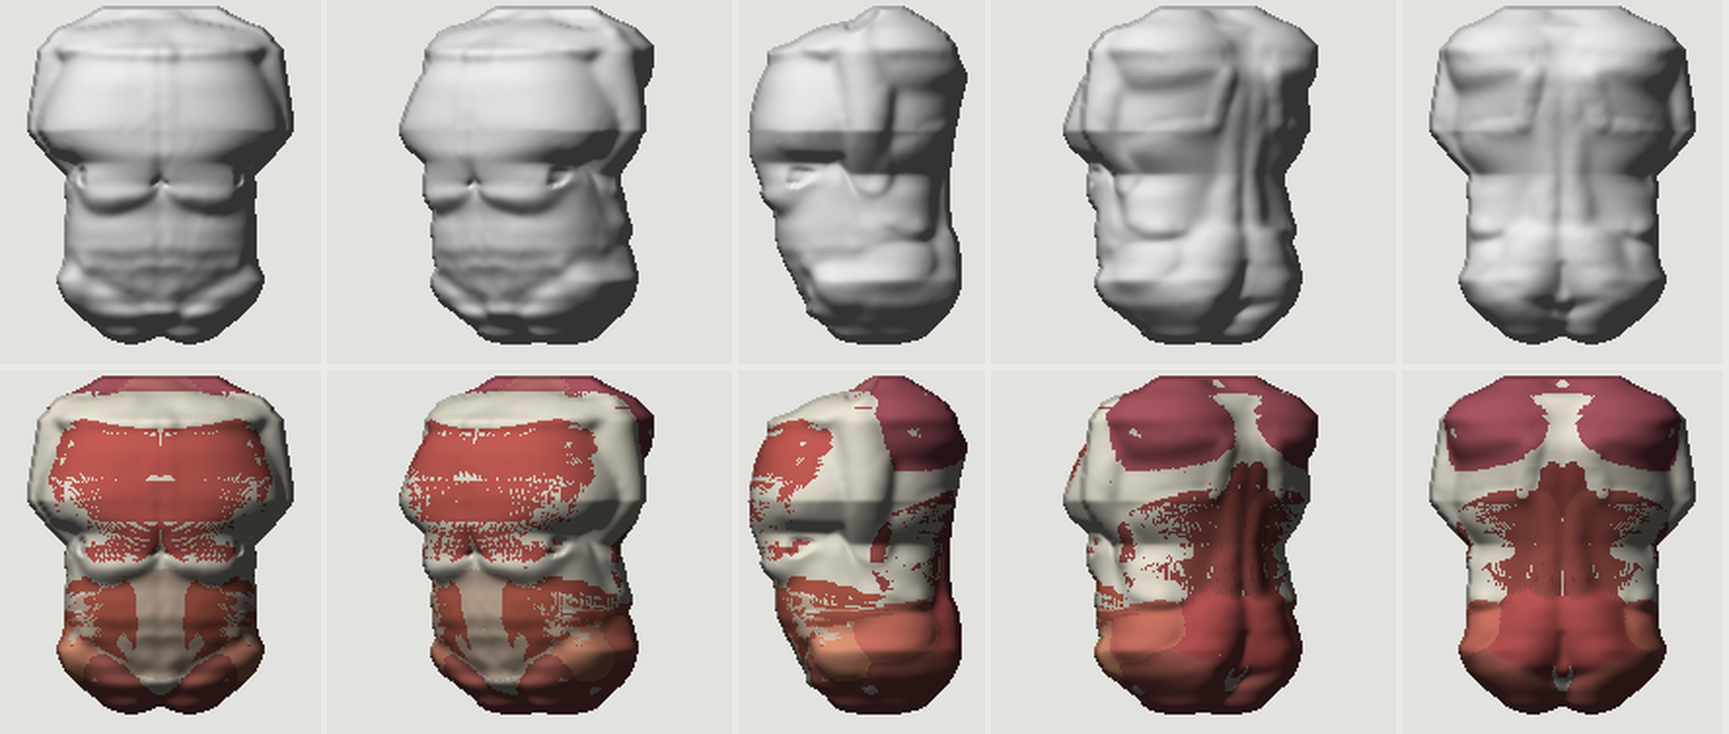
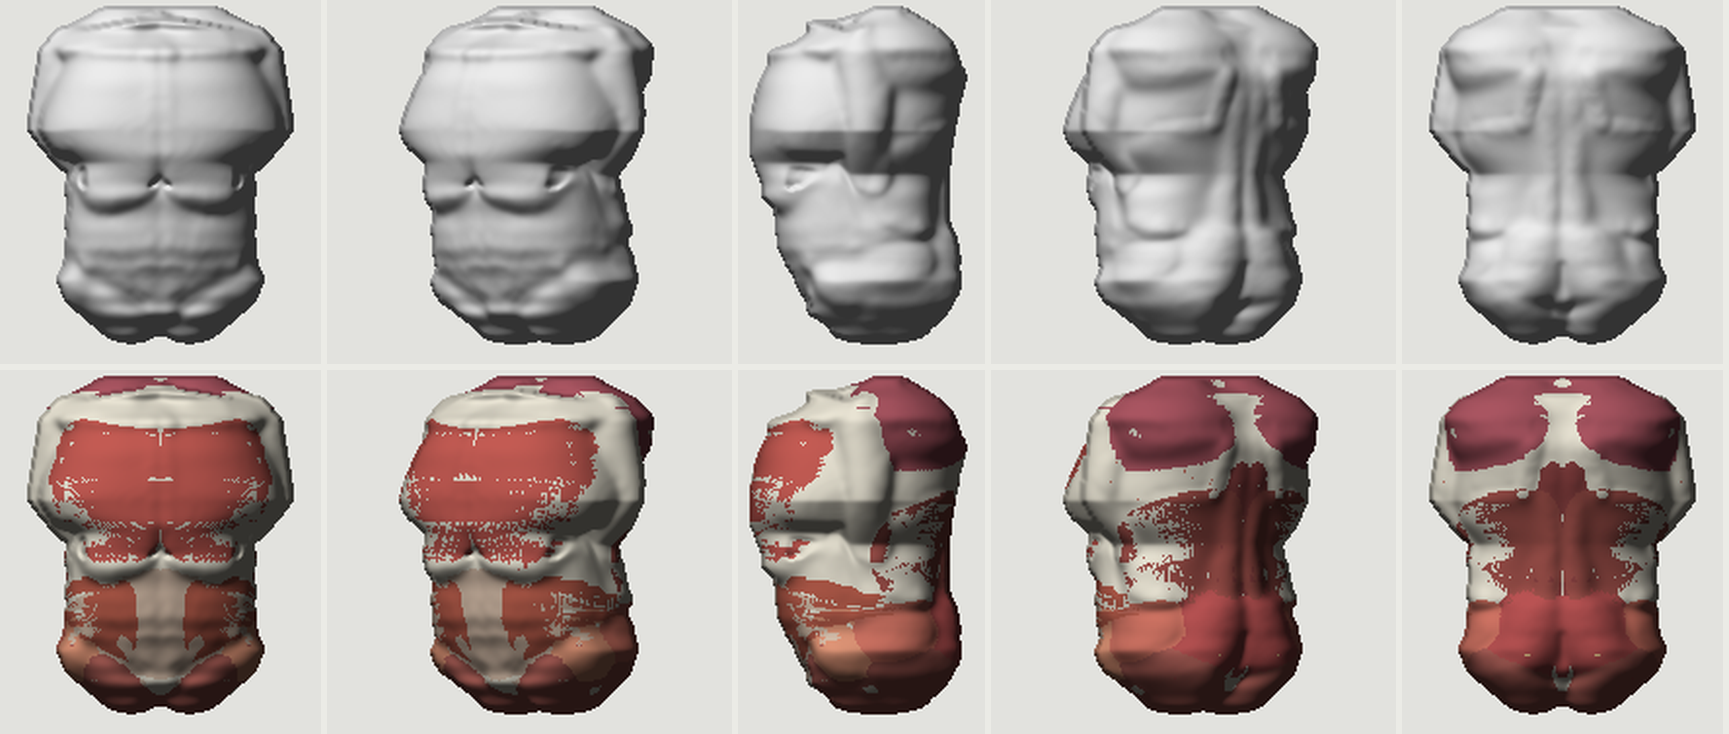
Body 3D: neck root (scalenes, feet of the sternocleidomastoids) removed from the trunk stack (ghost neck); prototype M v6
M v6: muscle 30.8 %, fat 23 %, bone 7.1 %, viscera 35.4 % of the torso mass. Muscle board now 14 muscles.

diff --git a/Art/work/transfer-proto/fable-crack/stack3d.py b/Art/work/transfer-proto/fable-crack/stack3d.py
@@ -512,8 +512,8 @@ def build_male(G, T, prm=MALE, ty=None):
 
     # ---- deep masses: the WDI dome above the clavicle and the scapular spine (neck base, upper trapezius). The arm stump
     # (humerus muscles) was removed 2026-11-17 with the deltoid (Virginie): it belongs to the ghost arm.
-    # base of the neck inside the sprite (scalenes, the feet of the sternocleidomastoids): the neck is cut just above it
-    S.add("neck root", "muscle", ell((0, 212, 262), (38, 20, 38), rad2=(38, 36, 30)), k=4.0, colour=COL["neck"])
+    # neck root (scalenes, the feet of the sternocleidomastoids): removed 2026-11-17 (Virginie: ghost limbs of the neck);
+    # build_ghost carries the scalenes and both heads of the sternocleidomastoid.
     # upper trapezius: the slope from the side of the neck down to the acromion and the spine of the scapula
     S.add("trapezius (upper)", "muscle", ell((38, 214, 232), (44, 30, 34), rad2=(44, 34, 44)), k=6.0, colour=COL["trap"], km=6.0)
 

diff --git a/Art/work/transfer-proto/fable-crack/musclelist.py b/Art/work/transfer-proto/fable-crack/musclelist.py
@@ -16,7 +16,6 @@ import stack3d as s
 
 # stack name prefix -> French name shown on the board
 NAMES = [
-    ("neck root", "racine du cou (scalènes, pieds des sterno-cléido-mastoïdiens)"),
     ("trapezius (upper)", "trapèze, partie haute"),
     ("trapezius (middle, lower)", "trapèze, parties moyenne et basse"),
     ("serratus", "dentelé antérieur (4 digitations)"),
